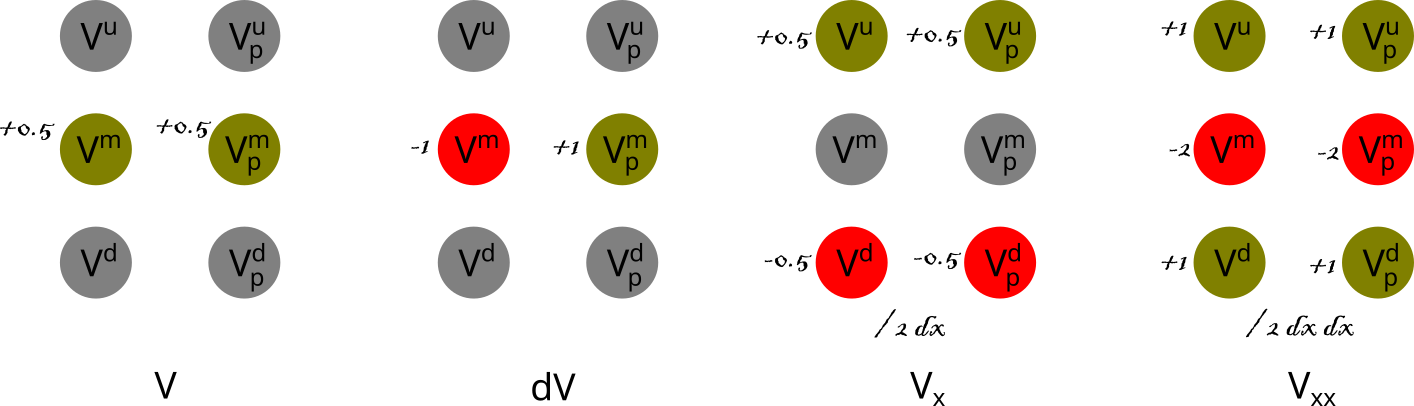
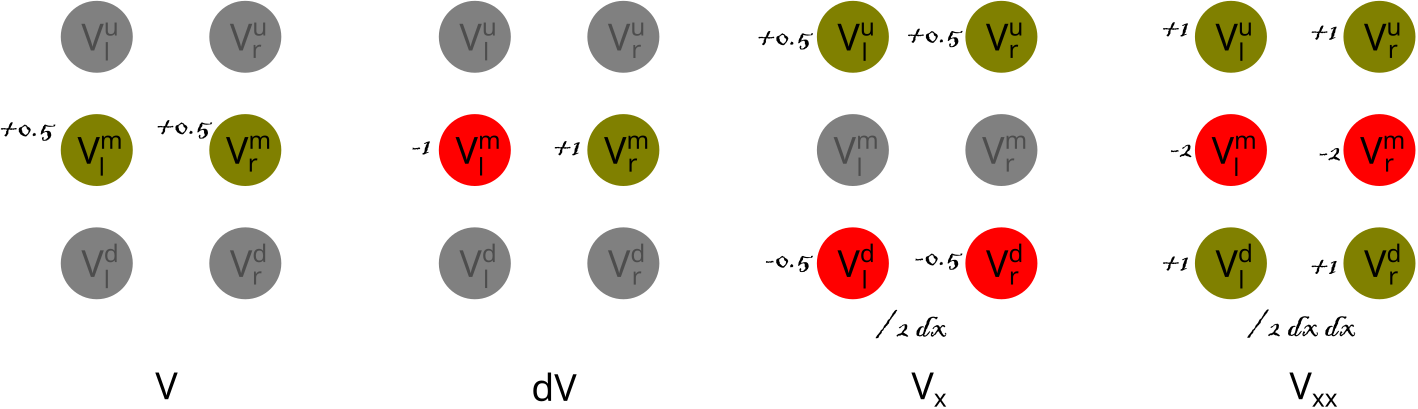
change readme

diff --git a/README.md b/README.md
@@ -1,6 +1,19 @@
 # Crank-Nicolson method.
 
-The Crank Nicolson method discretizes the derivatives of price using six grid points.
+The Crank Nicolson (CN) method discretizes the derivatives of price using six grid points.
 
+Let $V^u_l$, $V^m_l$, $V^d_l$ be the upper, middle and lower gridpoints on the left hand side (prices after the timestep), and $V^u_r$, $V^m_r$, $V^d_r$ be the corresponding gridpoints on the right hand side (prices before the timestep). 
+
+$$
+\begin{matrix}
+V^u_l & V^u_r \\
+V^m_l & V^m_r \\
+V^d_l & V^d_r
+\end{matrix}
+$$
+
+We can substitute $V$, $dV$, $V_x$, and $V_{xx}$ in the above PDE, by the discrete estimates based on the Crank-Nicolson method.
 
 ![cn method image](./Crank-Nicolson-Method/assets/cn.png)
+
+See `discretize_crank_nicolson` in `utils/symfns.py` for the implementation of this discretization. Each notebook uses this utility to determine the CN coefficients in each timestep from the model parameters.
